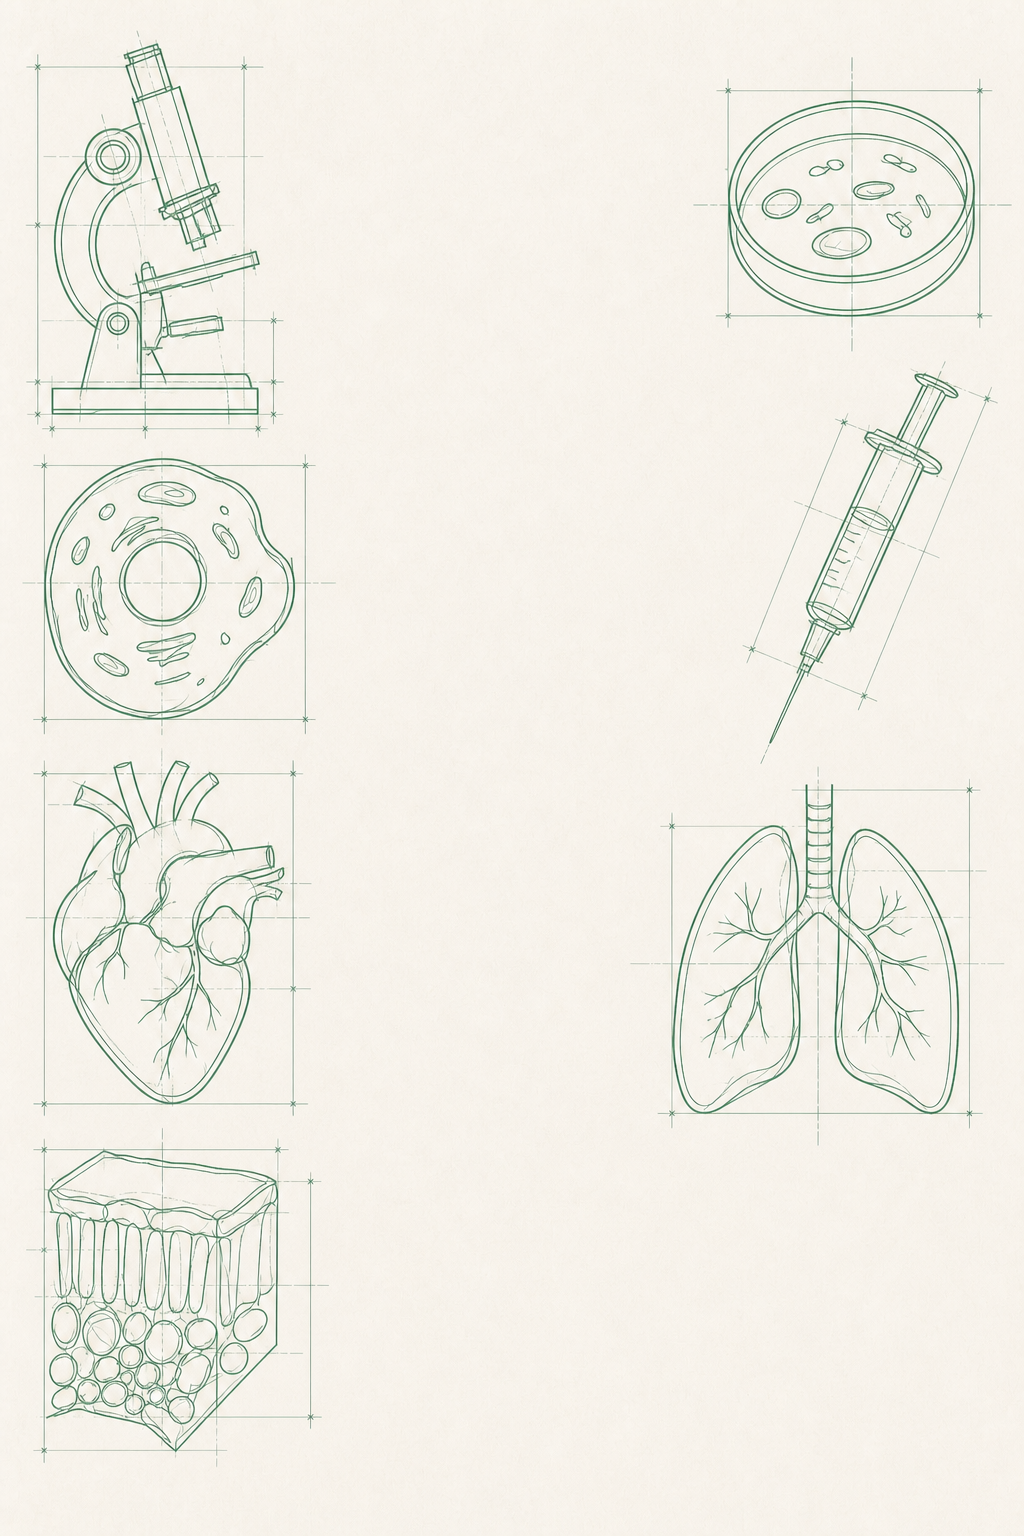
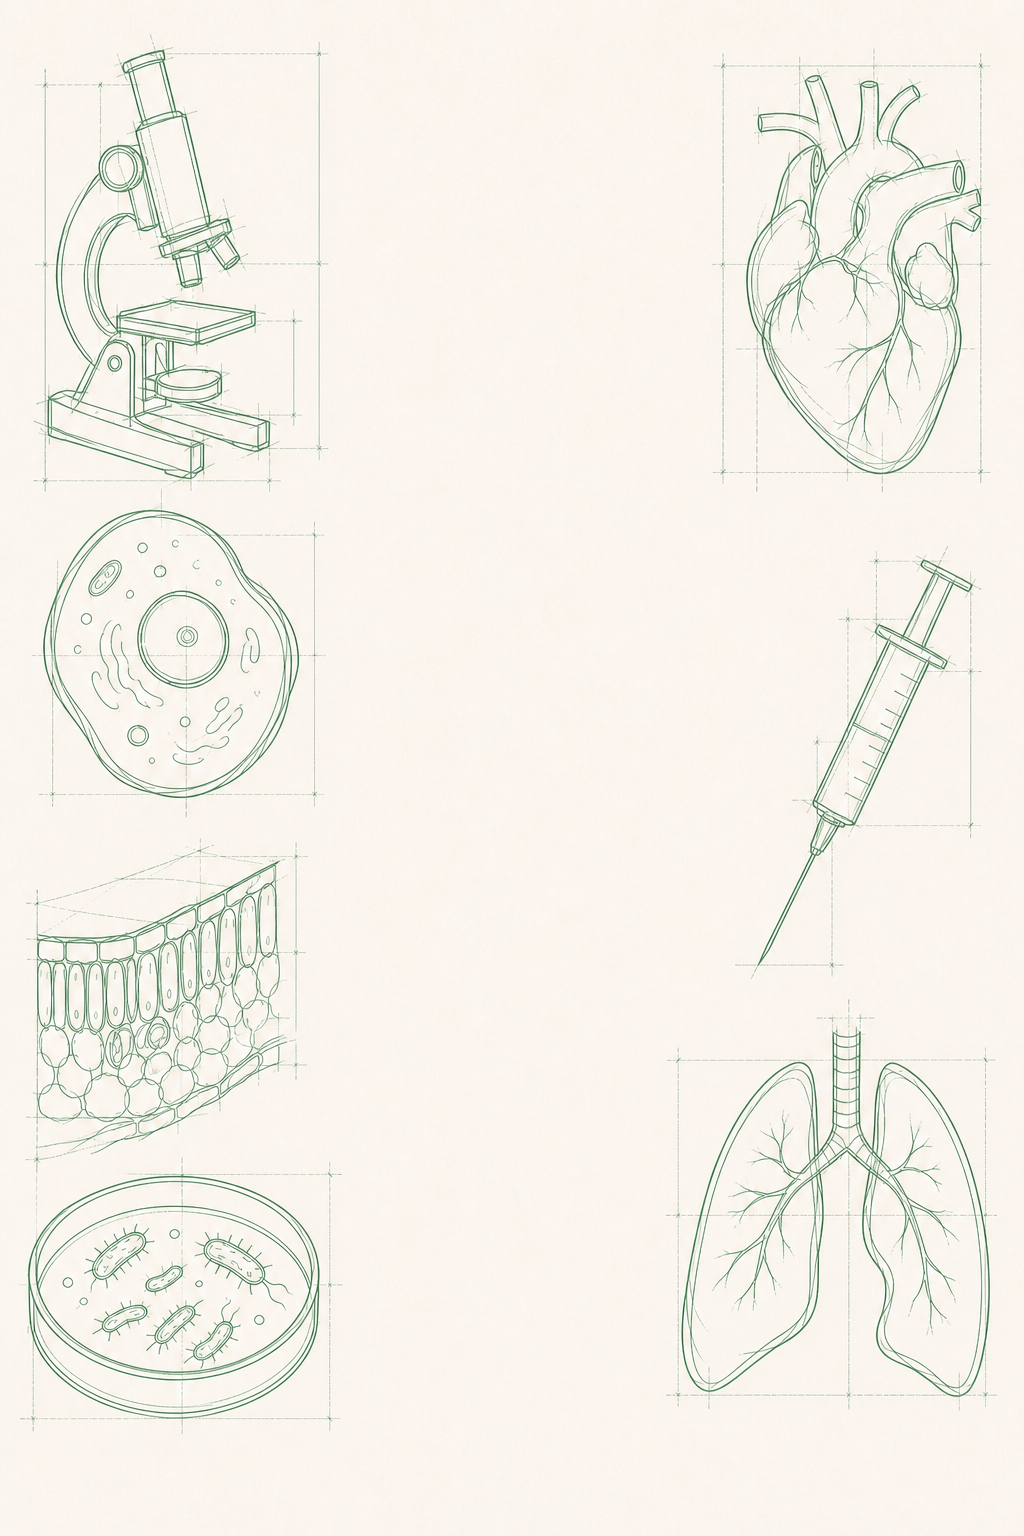
Backdrops pipeline: feed motif descriptions into img2img iterations + default to medium
Tom's insight: the blueprint/refined/photo edits got a generic 'redraw this image'
with no idea what the sketched shapes were, so an ambiguous blob got reinterpreted
(a cell rendered as an egg/donut). Now every img2img stage receives the unit's
motif list ('depicts: a microscope, a cell with nucleus, a heart...') so each shape
is rendered as what it's meant to be. Tightened the cell motif specifically.

Also switched both generators to medium quality (DL_QUALITY env override) after the
high-vs-medium A/B showed them indistinguishable at backdrop scale (~3x cheaper).

Regenerated Combined Science Biology Paper 1 end-to-end as proof (cell now renders
as a proper biological cell).

diff --git a/scripts/_designlab_aligned_ladder.py b/scripts/_designlab_aligned_ladder.py
@@ -11,28 +11,42 @@ Example: python scripts/_designlab_aligned_ladder.py science-aqa biology-paper-1
 """
 import base64, os, sys
 sys.path.insert(0, os.path.dirname(os.path.abspath(__file__)))
-from _designlab_unit_backdrops import ACCENT
+from _designlab_unit_backdrops import ACCENT, MOTIFS, fallback_motifs, UNITS
 from openai import OpenAI
 
 ROOT = os.path.dirname(os.path.dirname(os.path.abspath(__file__)))
 ASSETS = os.path.join(ROOT, "design-lab", "assets")
+QUALITY = os.environ.get("DL_QUALITY", "medium")   # medium ≈ high for these soft backdrops, ~3x cheaper
 
 KEEP = ("Keep the SAME objects in the EXACT SAME positions, same sizes and the same composition as the input. "
         "Keep the warm off-white paper and the empty central vertical third completely empty (no objects there). "
         "ABSOLUTELY NO text, words, letters, numbers or labels.")
 
-def prompts(word, hexc):
+def whatis(motifs):
+    # tell the model what each sketched shape is meant to be, so an ambiguous blob isn't reinterpreted
+    return (f" The drawing depicts these specific things: {motifs}. Render each shape as exactly what it is meant "
+            f"to be — do NOT reinterpret any shape as a different object.")
+
+def prompts(motifs, word, hexc):
+    w = whatis(motifs)
     return {
       "blueprint": (f"Redraw this exact image as a precise technical BLUEPRINT: render every shape as clean confident "
                     f"{word} ({hexc}) outline linework with light measurement ticks and thin construction guide-lines, "
-                    f"drafting style, on pale warm paper. {KEEP}"),
+                    f"drafting style, on pale warm paper.{w} {KEEP}"),
       "refined":   (f"Redraw this exact image as a detailed PEN-AND-INK and soft-watercolour illustration: confident "
                     f"finished linework with gentle {word} ({hexc}) washes, light shading and texture, a polished "
-                    f"naturalist's notebook plate, calm and not too dark. {KEEP}"),
+                    f"naturalist's notebook plate, calm and not too dark.{w} {KEEP}"),
       "photo":     (f"Transform this exact sketch into a richly detailed PHOTOREALISTIC version: each object becomes a "
                     f"lifelike, full-colour photograph with real texture, depth and soft studio lighting, vivid and "
-                    f"fully resolved. {KEEP}"),
+                    f"fully resolved.{w} {KEEP}"),
     }
+
+def motifs_for(subject, unit):
+    m = MOTIFS.get(f"{subject}/{unit}")
+    if m:
+        return m
+    u = next((u for u in UNITS.get(subject, {}).get("units", []) if u["slug"] == unit), None)
+    return fallback_motifs(u) if u else unit.replace("-", " ")
 
 def main():
     if len(sys.argv) < 3:
@@ -43,14 +57,15 @@ def main():
     if not os.path.exists(sketch):
         sys.exit(f"sketch not found: {sketch} (generate it with _designlab_unit_backdrops.py first)")
     client = OpenAI()
-    for stage, prompt in prompts(word, hexc).items():
+    motifs = motifs_for(subject, unit)
+    for stage, prompt in prompts(motifs, word, hexc).items():
         out = os.path.join(ASSETS, f"path-bg-u-{subject}-{unit}-{stage}.png")
         ok = False
         for model in ("gpt-image-2", "gpt-image-1"):
             try:
-                print(f"[{stage}] {model} edit…", flush=True)
+                print(f"[{stage}] {model} edit ({QUALITY})…", flush=True)
                 with open(sketch, "rb") as img:
-                    r = client.images.edit(model=model, image=img, prompt=prompt, size="1024x1536")
+                    r = client.images.edit(model=model, image=img, prompt=prompt, size="1024x1536", quality=QUALITY)
                 b64 = r.data[0].b64_json
                 with open(out, "wb") as f:
                     f.write(base64.b64decode(b64))

diff --git a/scripts/_designlab_unit_backdrops.py b/scripts/_designlab_unit_backdrops.py
@@ -49,7 +49,7 @@ MOTIFS = {
  "english-literature-aqa/power-and-conflict": "a crumbling colossal statue half-buried in desert sand, a cavalry charge of horses, a bayonet rifle, a war photographer's camera, a single poppy, a craggy mountain peak, a diving warplane",
  "english-literature-aqa/unseen-poetry": "an open book of poetry, a quill, scattered loose lines of verse, a magnifying glass over a stanza, a pressed flower, two poems side by side, an inkblot",
  # Combined Science
- "science-aqa/biology-paper-1": "a microscope, a single rounded animal cell, a beating heart with vessels, a leaf cross-section, bacteria in a petri dish, a vaccine syringe, a pair of lungs",
+ "science-aqa/biology-paper-1": "a microscope, a single rounded biological animal cell with a clearly visible round nucleus and cell membrane (a microscope cell, NOT an egg or food), a beating heart with vessels, a leaf cross-section, bacteria in a petri dish, a vaccine syringe, a pair of lungs",
  "science-aqa/biology-paper-2": "a DNA double helix, a branching neuron, a side profile of a brain, a Punnett inheritance square, an eye, a kidney, a simple food chain of creatures",
  "science-aqa/chemistry-paper-1": "a Bohr atom with orbiting electrons, a single periodic-table tile, a conical flask, two atoms bonded together, a Bunsen burner flame, electrolysis electrodes in a beaker, a balance scale",
  "science-aqa/chemistry-paper-2": "an oil-refinery fractionating column, a rising reaction-rate curve, a chromatography strip, the Earth wrapped in atmosphere, a long polymer chain, a rack of test tubes, a gas jar",
@@ -133,7 +133,7 @@ def main():
             for model in ("gpt-image-2", "gpt-image-1"):
                 try:
                     print(f"[{key}] {model}…", flush=True)
-                    r = client.images.generate(model=model, prompt=prompt, size="1024x1536", quality="high")
+                    r = client.images.generate(model=model, prompt=prompt, size="1024x1536", quality=os.environ.get("DL_QUALITY", "medium"))
                     with open(out, "wb") as f:
                         f.write(base64.b64decode(r.data[0].b64_json))
                     print(f"[{key}] saved ({os.path.getsize(out)//1024} KB)", flush=True)

diff --git a/scripts/_designlab_ab_quality.py b/scripts/_designlab_ab_quality.py
@@ -1,0 +1,49 @@
+"""A/B: generate the same Biology Paper 1 backdrop at HIGH vs MEDIUM quality,
+for both the sketch (generate) and the photoreal (img2img edit), so we can judge
+whether medium is good enough before a full-site rollout.
+Writes design-lab/assets/_ab-{sketch,photo}-{high,medium}.png
+"""
+import base64, os, sys
+sys.path.insert(0, os.path.dirname(os.path.abspath(__file__)))
+from _designlab_unit_backdrops import MOTIFS, ACCENT, sketch_prompt
+from _designlab_aligned_ladder import prompts as ladder_prompts
+from openai import OpenAI
+
+ROOT = os.path.dirname(os.path.dirname(os.path.abspath(__file__)))
+ASSETS = os.path.join(ROOT, "design-lab", "assets")
+SUBJECT, UNIT = "science-aqa", "biology-paper-1"
+hexc, word = ACCENT[SUBJECT]
+motifs = MOTIFS[f"{SUBJECT}/{UNIT}"]
+sketch_in = os.path.join(ASSETS, f"path-bg-u-{SUBJECT}-{UNIT}.png")   # existing sketch = img2img source
+
+def save(path, b64):
+    with open(path, "wb") as f:
+        f.write(base64.b64decode(b64))
+    return os.path.getsize(path) // 1024
+
+def main():
+    c = OpenAI()
+    sp = sketch_prompt(motifs, word, hexc)
+    pp = ladder_prompts(motifs, word, hexc)["photo"]
+    for q in ("high", "medium"):
+        # sketch (text->image)
+        out = os.path.join(ASSETS, f"_ab-sketch-{q}.png")
+        try:
+            print(f"[sketch {q}]…", flush=True)
+            r = c.images.generate(model="gpt-image-2", prompt=sp, size="1024x1536", quality=q)
+            print(f"[sketch {q}] saved {save(out, r.data[0].b64_json)} KB", flush=True)
+        except Exception as e:
+            print(f"[sketch {q}] FAIL {str(e)[:160]}", flush=True)
+        # photo (img2img edit from the existing sketch)
+        out = os.path.join(ASSETS, f"_ab-photo-{q}.png")
+        try:
+            print(f"[photo {q}]…", flush=True)
+            with open(sketch_in, "rb") as img:
+                r = c.images.edit(model="gpt-image-2", image=img, prompt=pp, size="1024x1536", quality=q)
+            print(f"[photo {q}] saved {save(out, r.data[0].b64_json)} KB", flush=True)
+        except Exception as e:
+            print(f"[photo {q}] FAIL {str(e)[:160]}", flush=True)
+    print("done")
+
+if __name__ == "__main__":
+    main()
